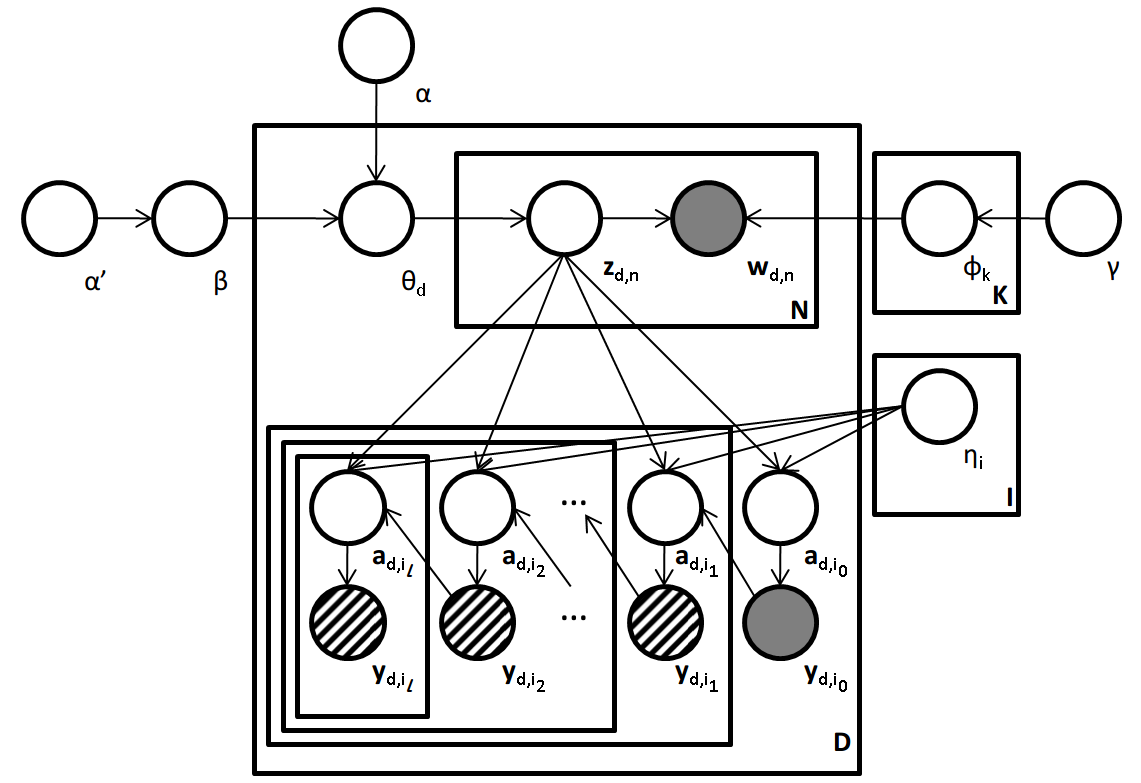
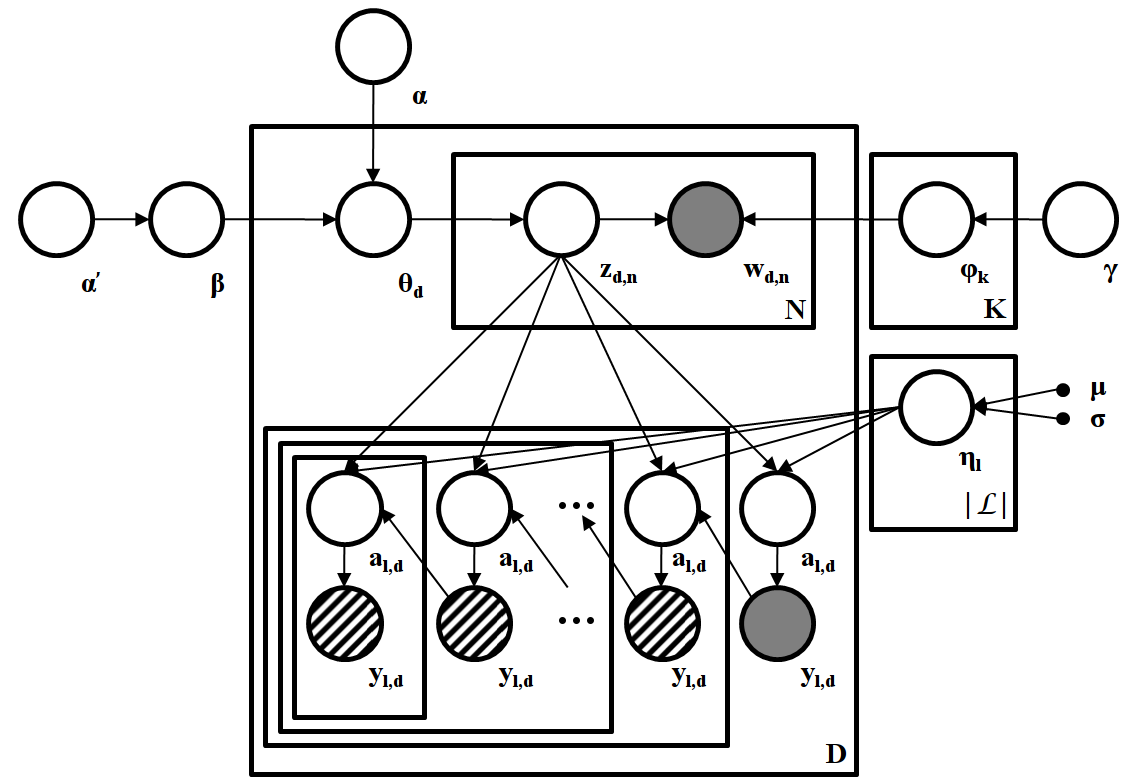
Updated figure and minor changes to evaluation

diff --git a/paper/main.tex b/paper/main.tex
@@ -431,6 +431,7 @@ not very sensitive \citep{Birmetal2005}. Regardless of that fact,
 this is one of the only sources for information on patient diagnoses
 aside from the free text. %Aside from prediction, one of the goals is to compare the sensitivity of predictions from the HSLDA model in comparison to the codes in a case where a test closer to ground truth is available. For this we will compare whether predictions for the ICD-9 code associated with anemia are better predicted by HSLDA or by the ICD-9 codes. Anemia was chosen because hemoglobin values are readily available and the definition of anemia according the World Health Organization is approximately 12.5, with a threshold of 12 for women and 13 for men [citation].
 
+
 We worked within the guidelines of the Health Insurance Portability
 and Accountability Act (HIPAA), which protects patient privacy and
 the security of potentially identifying medical material, known as
@@ -475,10 +476,11 @@ performance attributable solely to the hierarchical constraints.
 
 We evaluated model performance for all three models with a range of
 values for $\mu$ ($\mu\in\left\{ -3,-2.8,-2.6,\ldots,1\right\} )$,
-the mean prior parameter for regression parameters. 
+the mean prior parameter for regression parameters.
 
 
 \subsection{Evaluation}
+
 %\begin{itemize}
 %\item Talk about hierarchy and no hierarchy
 %\item Make explicit calculation of sensitivity and 1-specificity
@@ -487,26 +489,17 @@ For each dataset, a held out set of 1,000 documents and accompanying
 labels were used for evaluation. The two main methods of evaluation
 for the model are prediction and topic quality. To evaluate predictive
 performance for all comparison models equivalently, each model was
-evaluated with two methods. The first method augmented the observed
-labels in the held out set as well as their ancestors in the hierarchy
-as 
-
-
-\subsubsection{Prediction}
+evaluated with two methods. The first evaluation method augments the
+observed labels in the held out set with their ancestors and considers
+all other non-existant labels to be negative. The second method ignores
+the ancestors of the observed labels in the held out set and considers
+all other non-existant labels to be negative. This uniform treatment
+of ancestors allows for a fair comparison of the models.
 
 The two measures for predictive performance used here include the
-true positive rate and the false positive rate. We evaluate model
-performance on held out data. A more ideal evaluation of performance
-would include a manually labeled hierarchy since it is well known
-that ICD-9 codes have a relatively low sensitivity.
-
-Performance was evaluated against $p\left(y_{l,\hat{d}}\mid w_{1:N,d}\right)$.
-
-
-\subsubsection{Topic Quality and Character}
-
-TBD
-
+true positive rate and the false positive rate evaluated based on
+$p\left(y_{l,\hat{d}}\mid w_{1:N,d}\right)$ for each label in each
+model.
 
 \section{Results}
 \label{sec:results}
